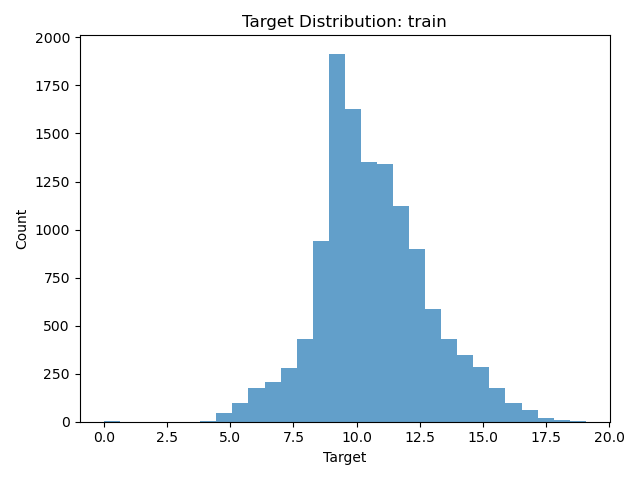
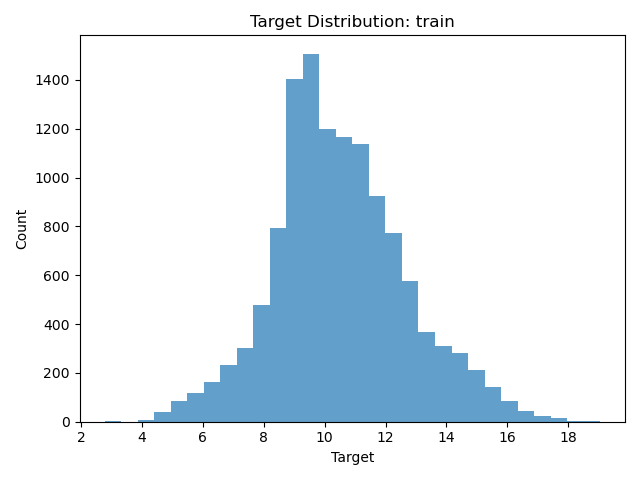
Transforms img + test nouvel ordi

diff --git a/data/dataset.py b/data/dataset.py
@@ -2,6 +2,7 @@ import torch
 import pandas as pd
 from PIL import Image
 import numpy as np
+from torchvision import transforms
 
 
 class Dataset(torch.utils.data.Dataset):
@@ -51,7 +52,15 @@ class Dataset(torch.utils.data.Dataset):
         image = Image.open(
             f"{self.dataset_path}/{self.split}/{self.ids[idx]}.jpg"
         ).convert("RGB")
-        image = self.transforms(image)
+        transform = transforms.Compose([
+            transforms.Resize(448),               
+            transforms.RandomHorizontalFlip(),
+            transforms.ColorJitter(brightness=0.1, contrast=0.1, saturation=0.1, hue=0.02),
+            transforms.RandomRotation(4),
+            transforms.ToTensor(),
+            transforms.Normalize(mean=[0.485, 0.456, 0.406], std=[0.229, 0.224, 0.225]),
+        ])
+        image = transform(image)
         value = {
             "id": self.ids[idx],
             "image": image,

diff --git a/train.py b/train.py
@@ -137,6 +137,15 @@ def train(cfg, train_idx=None, val_idx=None):
 
         train_loader = datamodule.train_dataloader_dynamique(epoch = epoch)
 
+
+        # Envoie le sanity check a wandb pour le training set
+        train_sanity = show_images(train_loader, name="assets/sanity/train_images")
+        (
+            logger.log({"sanity_checks/train_images_epoch_"+str(epoch): wandb.Image(train_sanity)})
+            if logger is not None
+            else None
+        )
+
     
         model.train()
         epoch_train_loss = 0

diff --git a/data/datamodule.py b/data/datamodule.py
@@ -214,7 +214,8 @@ class DataModuleTemporal(DataModule):
         else:
             anneeMin = 2022
         
-        if (self.anneeMin == -1 or self.anneeMin != anneeMin):
+        
+        if (epoch != 0 and (self.anneeMin == -1 or self.anneeMin != anneeMin)) :
             print ("******")
             print ("DATAMODULE DYNAMIQUE")
             print ("******")
